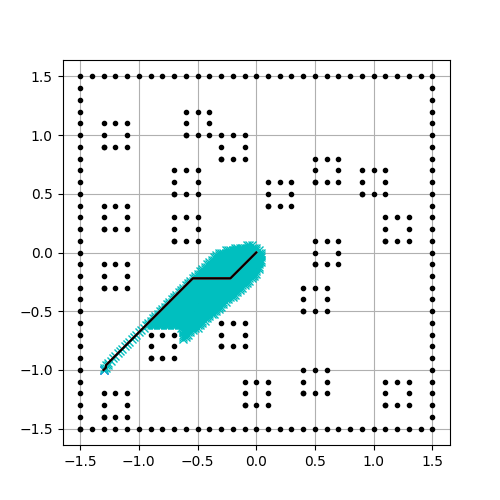
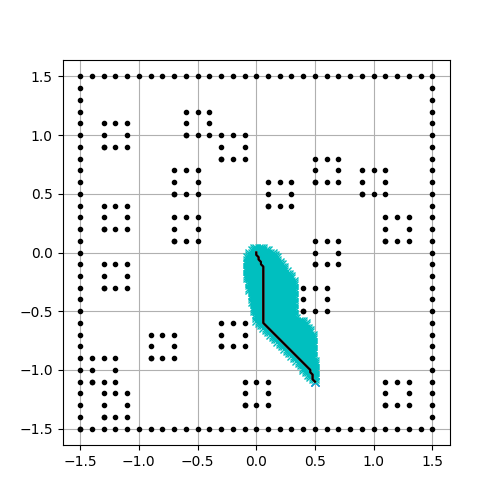
fix stuck object indexing

Changed region(s): [[0.18, 0.48, 0.66, 0.81]]

diff --git a/Week08-09/auto_fruit_search_new_strat.py b/Week08-09/auto_fruit_search_new_strat.py
@@ -781,7 +781,7 @@ if __name__ == "__main__":
 
         all_waypoints_reverse, simplified_path_reverse = astar.a_start(robot_x, robot_y, operate.fruit_to_find_xy[0], operate.fruit_to_find_xy[1], obstacle_list)
         if all_waypoints_reverse == None and simplified_path_reverse == None:
-            all_waypoints_reverse, simplified_path_reverse = astar.a_start(robot_x, robot_y, operate.fruit_to_find_xy[0], operate.fruit_to_find_xy[1], obstacle_list, last_fruit_index-1)
+            all_waypoints_reverse, simplified_path_reverse = astar.a_start(robot_x, robot_y, operate.fruit_to_find_xy[0], operate.fruit_to_find_xy[1], obstacle_list, last_fruit_pos)
         
         # Waypoints are reversed, trying to set it right
         operate.all_waypoints = all_waypoints_reverse[::-1]
@@ -810,24 +810,24 @@ if __name__ == "__main__":
         robot_x = operate.robot_pose[0]
         robot_y = operate.robot_pose[1]
         
-        last_fruit_index = fruit_index
+        last_fruit_pos = operate.fruit_to_find_xy
     ###
+    print("Done")
 
-
-    while start:
-        operate.update_keyboard()
-        operate.take_pic()
-        drive(aruco_true_pos)
-        drive_meas = operate.control()
-        operate.update_slam(drive_meas)
-        operate.robot_pose = operate.ekf.robot.state[:3,0]
-        operate.notification = f"Robot Pose : [{operate.robot_pose[0]}, {operate.robot_pose[1]}, {operate.robot_pose[2]}]"
-        # print(operate.robot_pose)
-        operate.record_data()
-        operate.save_image()
-        operate.detect_target()
-        # visualise
-        operate.draw(canvas)
-        pygame.display.update()
+    # while start:
+    #     operate.update_keyboard()
+    #     operate.take_pic()
+    #     drive(aruco_true_pos)
+    #     drive_meas = operate.control()
+    #     operate.update_slam(drive_meas)
+    #     operate.robot_pose = operate.ekf.robot.state[:3,0]
+    #     operate.notification = f"Robot Pose : [{operate.robot_pose[0]}, {operate.robot_pose[1]}, {operate.robot_pose[2]}]"
+    #     # print(operate.robot_pose)
+    #     operate.record_data()
+    #     operate.save_image()
+    #     operate.detect_target()
+    #     # visualise
+    #     operate.draw(canvas)
+    #     pygame.display.update()
         
     

diff --git a/Week08-09/astar.py b/Week08-09/astar.py
@@ -325,8 +325,9 @@ def a_start(start_x,start_y,goal_x,goal_y,obstacle_list,last_fruit=None):
         oy.append(i*0.1)
 
     #set obstacle positions
-    for obst in range(len(obstacle_list)):
-        if obst == last_fruit:
+    OBSTACLE_RADIUS = 1
+    for obst, fruit_name in enumerate(obstacle_list):
+        if last_fruit is not None and np.array_equal(fruit_name, np.array(last_fruit)*10):
             OBSTACLE_RADIUS = 0
         else: 
             OBSTACLE_RADIUS = 1
